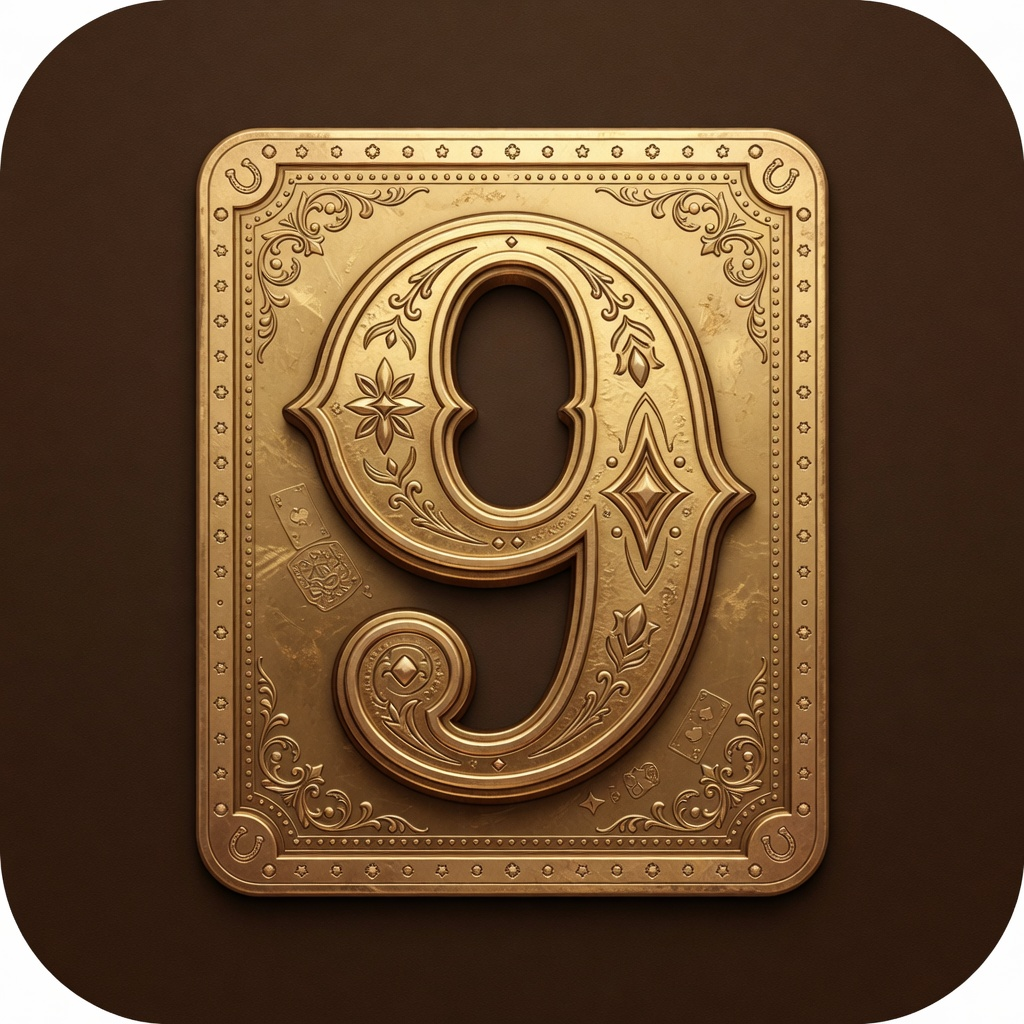
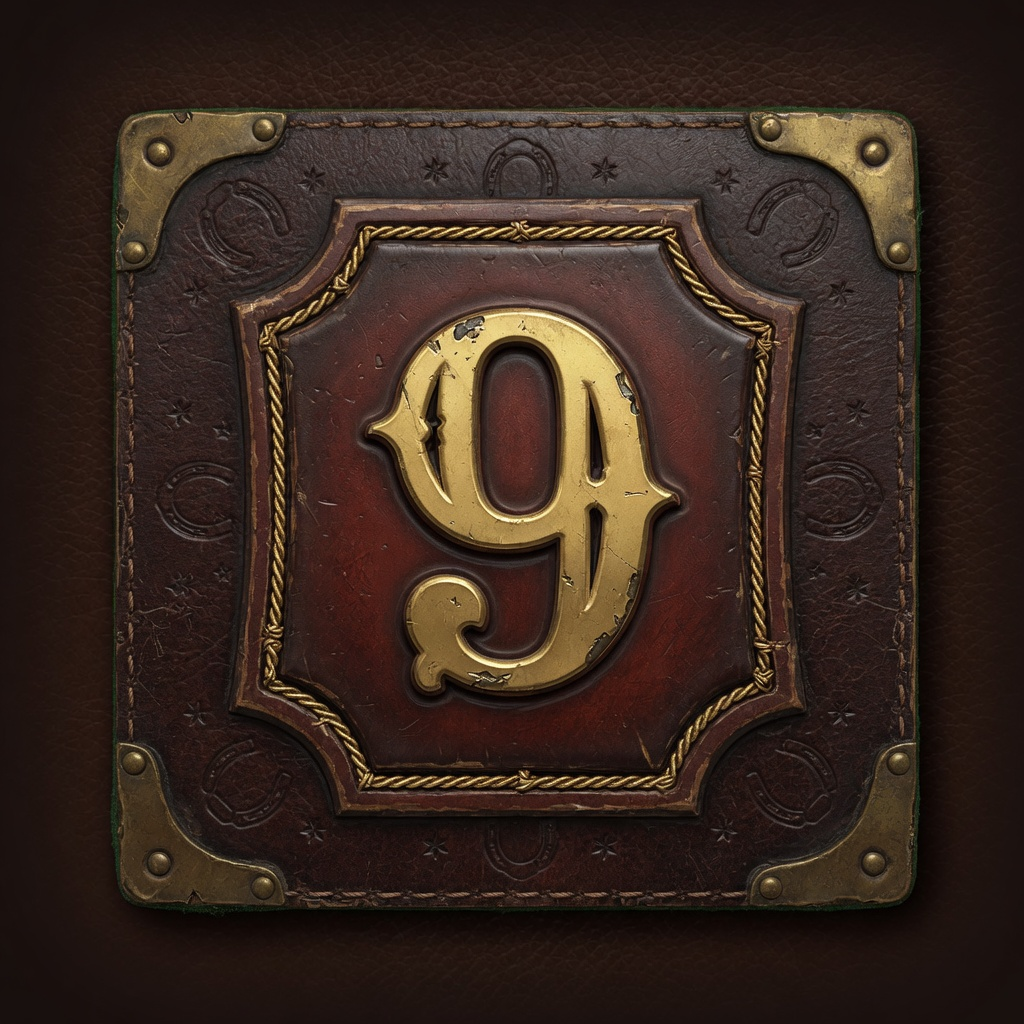
feat(client): full symbol set, stampede expand, anticipation pips
Regenerate all high/low reel tiles + desert BG as square/cover-ready art.
Stampede board expand choreography; scatter anticipation with progress
pips and harder dim; stronger BIG/MEGA/SUPER banner flashes and HUD meters.

diff --git a/apps/client/src/reel-view.ts b/apps/client/src/reel-view.ts
@@ -471,7 +471,7 @@ export class ReelView {
     this.spinning = false;
   }
 
-  /** Visual anticipation boots: dim board, glow pending reels. */
+  /** Visual anticipation boots: dim board, glow pending reels, scatter progress. */
   private startAnticipationBoots(anticReels: Set<number>) {
     this.anticipActive = true;
     if (!this.anticipGraphics) {
@@ -485,37 +485,80 @@ export class ReelView {
     const originX = -boardW / 2;
     const originY = -boardH / 2;
 
-    // Dim non-antic reels
+    // Dim non-antic reels harder for casino tension
     for (let r = 0; r < this.reels.length; r++) {
       const reel = this.reels[r]!;
       if (!anticReels.has(r) && reel.spinning) {
-        reel.root.alpha = 0.55;
+        reel.root.alpha = 0.38;
       } else if (anticReels.has(r)) {
         reel.root.alpha = 1;
       }
     }
 
+    // Locked scatters on already-stopped reels
+    let lockedScatters = 0;
+    for (let r = 0; r < this.reels.length; r++) {
+      if (anticReels.has(r)) continue;
+      const reel = this.reels[r]!;
+      if (reel.spinning) continue;
+      for (const spr of reel.cells) {
+        const id = (spr as Sprite & { symbolId?: string }).symbolId;
+        if (id === 'SCATTER' || id === 'SUPERCOIN') lockedScatters++;
+      }
+    }
+
+    if (!this.pillText) {
+      /* title area used for scatter progress */
+    }
+    if (this.pillText) {
+      this.pillText.visible = true;
+      this.pillText.text = `SCATTER ${Math.min(2, lockedScatters)}/3 — FREE GAMES?`;
+      this.pillText.style.fill = 0xffd24a;
+    }
+
     const draw = () => {
       if (!this.anticipActive || !this.anticipGraphics) return;
-      const pulse = 0.45 + 0.55 * Math.sin(performance.now() / 180);
+      const pulse = 0.45 + 0.55 * Math.sin(performance.now() / 160);
       g.clear();
-      // Vignette plate
-      g.roundRect(originX - 28, originY - 28, boardW + 56, boardH + 56, 22);
-      g.stroke({ color: 0xff6a2a, width: 3, alpha: 0.25 + pulse * 0.35 });
+      // Hot orange vignette
+      g.roundRect(originX - 32, originY - 32, boardW + 64, boardH + 64, 24);
+      g.stroke({ color: 0xff6a2a, width: 4, alpha: 0.3 + pulse * 0.4 });
+      g.roundRect(originX - 20, originY - 20, boardW + 40, boardH + 40, 18);
+      g.stroke({ color: 0xffc14a, width: 2, alpha: 0.2 + pulse * 0.25 });
       for (const r of anticReels) {
         const reel = this.reels[r];
         if (!reel) continue;
         g.roundRect(
-          reel.x - 4,
-          reel.baseY - 4,
-          CELL_W + 8,
-          reel.height * CELL_H + 8,
-          10,
+          reel.x - 6,
+          reel.baseY - 6,
+          CELL_W + 12,
+          reel.height * CELL_H + 12,
+          12,
         );
-        g.stroke({ color: 0xffc14a, width: 3, alpha: pulse });
+        g.stroke({ color: 0xffc14a, width: 4, alpha: pulse });
+        // Inner heat
+        g.roundRect(
+          reel.x,
+          reel.baseY,
+          CELL_W,
+          reel.height * CELL_H,
+          8,
+        );
+        g.fill({ color: 0xff8a20, alpha: 0.06 + pulse * 0.06 });
       }
-      // Micro board scale pulse
-      this.board.scale.set(1 + 0.008 * pulse);
+      // Progress pips under board
+      for (let i = 0; i < 3; i++) {
+        const px = originX + boardW / 2 - 36 + i * 36;
+        const py = originY + boardH + 22;
+        g.circle(px, py, 8);
+        g.fill({
+          color: i < lockedScatters ? 0xffd24a : 0x3a2a18,
+          alpha: i < lockedScatters ? 0.95 : 0.55,
+        });
+        g.circle(px, py, 8);
+        g.stroke({ color: 0xe8b84a, width: 1.5, alpha: 0.8 });
+      }
+      this.board.scale.set(1 + 0.012 * pulse);
       requestAnimationFrame(draw);
     };
     requestAnimationFrame(draw);
@@ -528,6 +571,66 @@ export class ReelView {
     for (const reel of this.reels) {
       reel.root.alpha = 1;
     }
+    if (this.pillText) {
+      this.pillText.visible = false;
+      this.pillText.text = '';
+    }
+  }
+
+  /**
+   * Stampede: board height expands to tall grid with gold shockwave.
+   * Call after layoutBoard already updated heights, or pass new heights/grid.
+   */
+  async playStampedeExpand(
+    heights: number[],
+    grid: SymbolId[][],
+    ms = 900,
+  ): Promise<void> {
+    this.layoutBoard(heights, grid);
+    const start = performance.now();
+    await new Promise<void>((resolve) => {
+      const tick = () => {
+        const t = Math.min(1, (performance.now() - start) / ms);
+        const ease = 1 - Math.pow(1 - t, 3);
+        const pulse = Math.sin(t * Math.PI);
+        this.fxLayer.removeChildren();
+        const maxRows = Math.max(...this.heights);
+        const boardW = 5 * CELL_W + 4 * REEL_GAP;
+        const boardH = maxRows * CELL_H;
+        const g = new Graphics();
+        const inflate = 20 + ease * 40;
+        g.roundRect(
+          -boardW / 2 - inflate,
+          -boardH / 2 - inflate,
+          boardW + inflate * 2,
+          boardH + inflate * 2,
+          20,
+        );
+        g.stroke({
+          color: 0xffe08a,
+          width: 5,
+          alpha: 0.9 * (1 - t * 0.5),
+        });
+        g.roundRect(
+          -boardW / 2 - 8,
+          -boardH / 2 - 8,
+          boardW + 16,
+          boardH + 16,
+          14,
+        );
+        g.stroke({ color: 0xc9a227, width: 2, alpha: 0.5 + pulse * 0.4 });
+        this.fxLayer.addChild(g);
+        this.board.scale.set(0.92 + ease * 0.1);
+        if (t < 1) requestAnimationFrame(tick);
+        else {
+          this.board.scale.set(1);
+          this.fxLayer.removeChildren();
+          resolve();
+        }
+      };
+      requestAnimationFrame(tick);
+    });
+    await this.pulseLonghorns(Math.min(1200, ms));
   }
 
   private prepareStrip(

diff --git a/apps/client/index.html b/apps/client/index.html
@@ -104,24 +104,28 @@
  pointer-events: none;
  }
  .meter {
- background: var(--panel);
- border: 1px solid #e8b84a44;
- border-radius: 10px;
- padding: 0.45rem 0.85rem;
- min-width: 120px;
+ background: linear-gradient(165deg, #241810f2, #120c08f5);
+ border: 1px solid #e8b84a66;
+ border-radius: 12px;
+ padding: 0.5rem 0.95rem;
+ min-width: 128px;
+ box-shadow: 0 4px 18px #0008, inset 0 1px 0 #e8b84a22;
  }
  .meter label {
  display: block;
- font-size: 0.65rem;
+ font-size: 0.68rem;
  color: var(--muted);
  text-transform: uppercase;
- letter-spacing: 0.08em;
+ letter-spacing: 0.1em;
+ font-weight: 600;
  }
  .meter strong {
  font-family: 'Bebas Neue', Impact, sans-serif;
- font-size: 1.35rem;
+ font-size: 1.55rem;
  color: var(--gold);
  letter-spacing: 0.04em;
+ text-shadow: 0 2px 10px #e8b84a44;
+ line-height: 1.1;
  }
  .meter.herd {
  display: none;
@@ -699,17 +703,20 @@
  animation: cele-in 0.2s ease-out;
  }
  #celebration-root.flash-big .cele-veil {
- background: radial-gradient(ellipse at 50% 40%, #5a4010ee 0%, #000e 72%);
+ background: radial-gradient(ellipse at 50% 40%, #ffd24a55 0%, #5a4010ee 40%, #000e 75%);
+ box-shadow: inset 0 0 80px #ffd24a33;
  }
  #celebration-root.flash-mega .cele-veil {
- background: radial-gradient(ellipse at 50% 40%, #6a2010ee 0%, #000f 72%);
+ background: radial-gradient(ellipse at 50% 40%, #ff8a3a66 0%, #6a2010ee 40%, #000f 75%);
+ box-shadow: inset 0 0 100px #ff6a2033;
  }
  #celebration-root.flash-super .cele-veil {
- background: radial-gradient(ellipse at 50% 40%, #4a1060ee 0%, #000f 72%);
+ background: radial-gradient(ellipse at 50% 40%, #c060ff77 0%, #4a1060ee 40%, #000f 75%);
+ box-shadow: inset 0 0 120px #a040ff44;
  }
  #celebration-root.flash-total .cele-veil,
  .cele-veil.cele-total {
- background: radial-gradient(ellipse at 50% 40%, #1a3a20ee 0%, #000e 72%);
+ background: radial-gradient(ellipse at 50% 40%, #3dff8a44 0%, #1a3a20ee 40%, #000e 75%);
  }
  .cele-card {
  text-align: center;
@@ -734,10 +741,31 @@
  text-shadow: 0 4px 24px #e8b84a88;
  }
  .cele-title-count { color: #f0d080; }
- .cele-title-big { color: #ffd24a; }
- .cele-title-mega { color: #ff8a3a; }
- .cele-title-super { color: #e8a0ff; }
- .cele-title-total { color: #7dffb0; text-shadow: 0 4px 28px #3dff8a88; }
+ .cele-title-big {
+ color: #ffd24a;
+ text-shadow: 0 0 24px #ffd24a88, 0 4px 12px #000a;
+ animation: cele-title-pop 0.45s cubic-bezier(0.2, 1.4, 0.3, 1);
+ }
+ .cele-title-mega {
+ color: #ff8a3a;
+ text-shadow: 0 0 28px #ff8a3aaa, 0 4px 14px #000a;
+ animation: cele-title-pop 0.5s cubic-bezier(0.2, 1.4, 0.3, 1);
+ }
+ .cele-title-super {
+ color: #e8a0ff;
+ text-shadow: 0 0 36px #c060ffcc, 0 4px 16px #000a;
+ animation: cele-title-pop 0.55s cubic-bezier(0.2, 1.4, 0.3, 1);
+ }
+ .cele-title-total {
+ color: #7dffb0;
+ text-shadow: 0 4px 28px #3dff8a88;
+ animation: cele-title-pop 0.4s ease-out;
+ }
+ @keyframes cele-title-pop {
+ 0% { transform: scale(0.6); opacity: 0; }
+ 60% { transform: scale(1.08); opacity: 1; }
+ 100% { transform: scale(1); }
+ }
  .cele-amount {
  font-family: 'Bebas Neue', Impact, sans-serif;
  font-size: clamp(2.8rem, 10vw, 4.5rem);

diff --git a/apps/client/src/main.ts b/apps/client/src/main.ts
@@ -300,14 +300,20 @@ async function presentFeaturesAfterSpin(result: SpinResult, turbo: boolean) {
   }
 
   if (result.features.stampede) {
+    // Expand board first so player sees height change, then splash copy
+    await reels.playStampedeExpand(
+      result.heights,
+      result.grid,
+      turbo ? 500 : 1000,
+    );
     await showFeatureSplash({
       kind: 'stampede',
       title: 'STAMPEDE!',
-      subtitle: '16,000 ways · guaranteed Longhorn on every reel',
-      ms: 2400,
+      subtitle: '16,000 ways · Longhorns across the herd',
+      ms: turbo ? 1200 : 2200,
       turbo,
     });
-    await reels.pulseLonghorns(turbo ? 700 : 1600);
+    await reels.pulseLonghorns(turbo ? 700 : 1400);
     audio.longhornWin();
   }
 

diff --git a/apps/client/src/presentation/banners.ts b/apps/client/src/presentation/banners.ts
@@ -50,8 +50,14 @@ export function createBannerOverlay(): BannerApi {
       if (amt) amt.textContent = displayValue.toLocaleString();
     },
     showBanner(tier: BannerTier, totalWin: number) {
+      const sub =
+        tier === 'super'
+          ? 'LEGENDARY PAYOUT'
+          : tier === 'mega'
+            ? 'MASSIVE WIN'
+            : 'BIG HIT';
       renderShell(`
-        <div class="cele-kicker">WESTERN STAMPEDE</div>
+        <div class="cele-kicker">WESTERN STAMPEDE · ${sub}</div>
         <div class="cele-title cele-title-${tier}">${BANNER_LABEL[tier]}</div>
         <div class="cele-amount" id="cele-amount">${totalWin.toLocaleString()}</div>
       `);

diff --git a/assets/LICENSES.md b/assets/LICENSES.md
@@ -12,6 +12,7 @@ Project source: see root `LICENSE` (MIT unless otherwise noted).
 
 - Symbol icons, desert background, cabinet frame, free-game splash, and Supercoin wheel art in `apps/client/public/assets/` were generated with **xAI Imagine** for this project (original assets).
 - Premium reel tiles (LONGHORN, WILD, WILD_FG, SCATTER, SUPERCOIN) regenerated as square cover-fit masters (presentation pass).
+- High/low symbols (STAG, WOLF, COYOTE, EAGLE, A–9) and desert BG regenerated for uniform optical size (full set pass).
 - Reel chrome, cover-fit masks, motion blur, and layout are code-driven in PixiJS (`apps/client/src/reel-view.ts`, `presentation/symbol-fit.ts`).
 - SFX and BGM are synthesized in-browser via Web Audio (`apps/client/src/audio.ts`) by default — no third-party sample packs required.
 - Optional sample overrides may be added under `apps/client/public/assets/sfx/` (`{id}.ogg` / `.mp3`); list each file here with author, URL, and license (prefer CC0).
